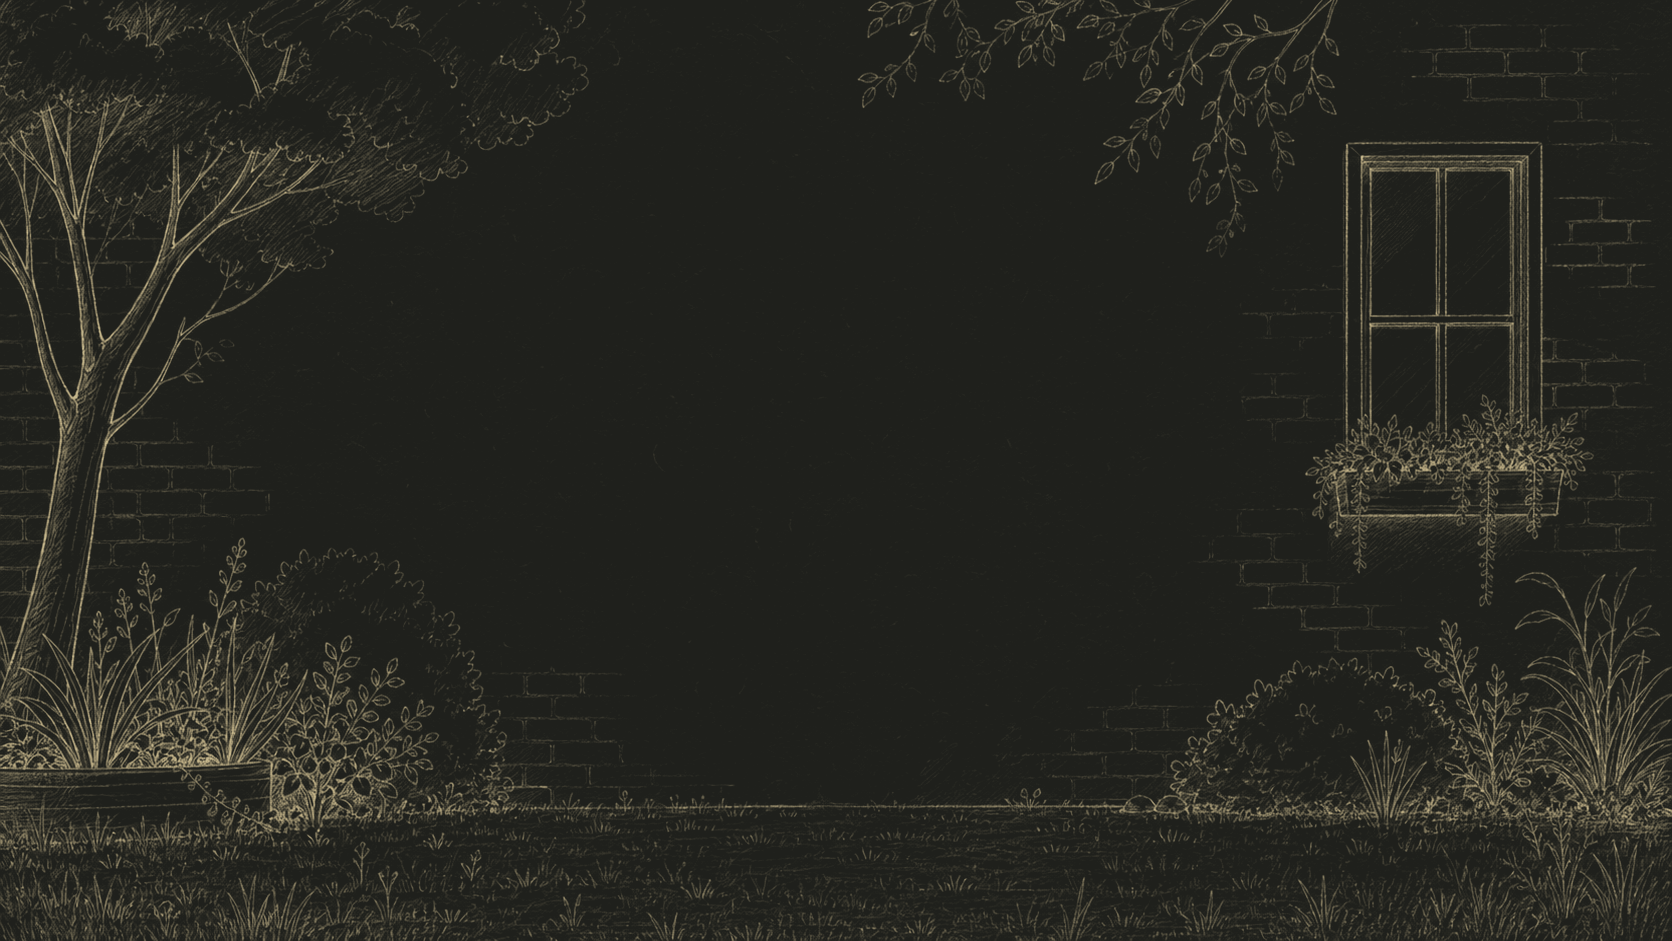
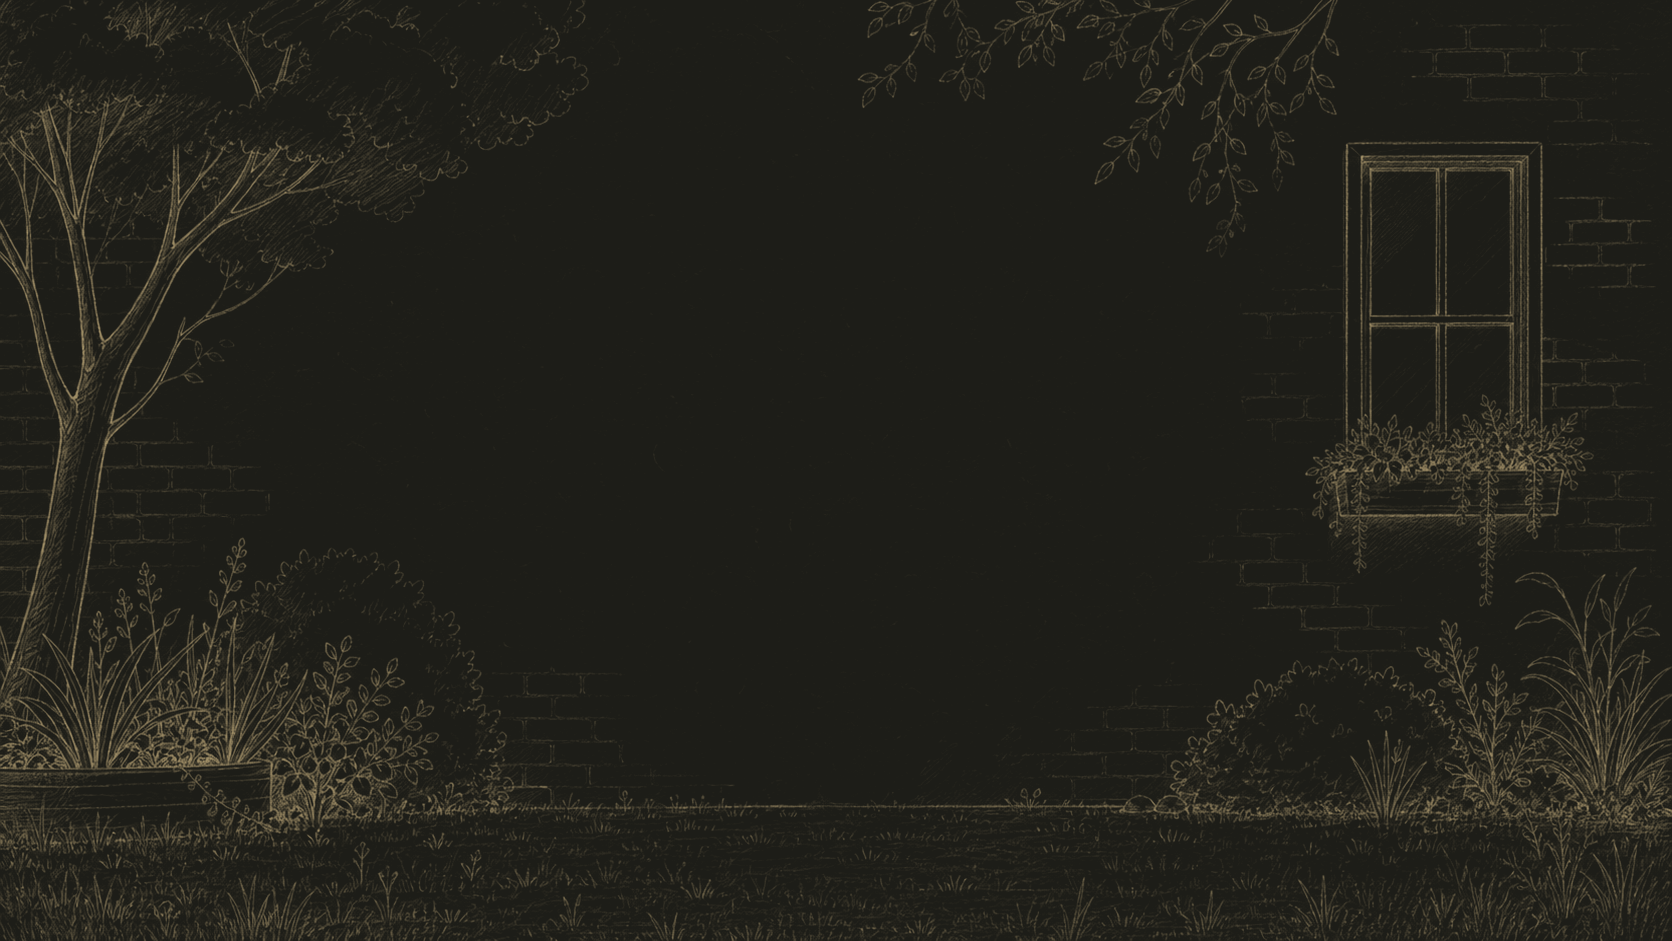
warm and dim entrance night linework

diff --git a/src/styles/global.css b/src/styles/global.css
@@ -6753,11 +6753,19 @@ html[data-appearance="ink"] .paper-loader__progress::after {
 }
 
 html[data-appearance="ink"] .entrance-scene {
+  --sketch-ink: #c5b178;
+  --sketch-muted: #a99a70;
   background:
     linear-gradient(rgba(17, 22, 25, 0.06), rgba(17, 22, 25, 0.06)),
     url("/images/entrance-sketch-night.png") center / cover no-repeat,
     #171a18;
   color: #eee9dc;
+}
+
+html[data-appearance="ink"] .entrance-scene :where(.wood-sign, .door-leaf, .paper-nav a),
+html[data-appearance="ink"] .entrance-scene .portfolio-door::before {
+  border-color: #b8a56f;
+  color: #d2c18c;
 }
 
 html[data-appearance="ink"] .room-scene {